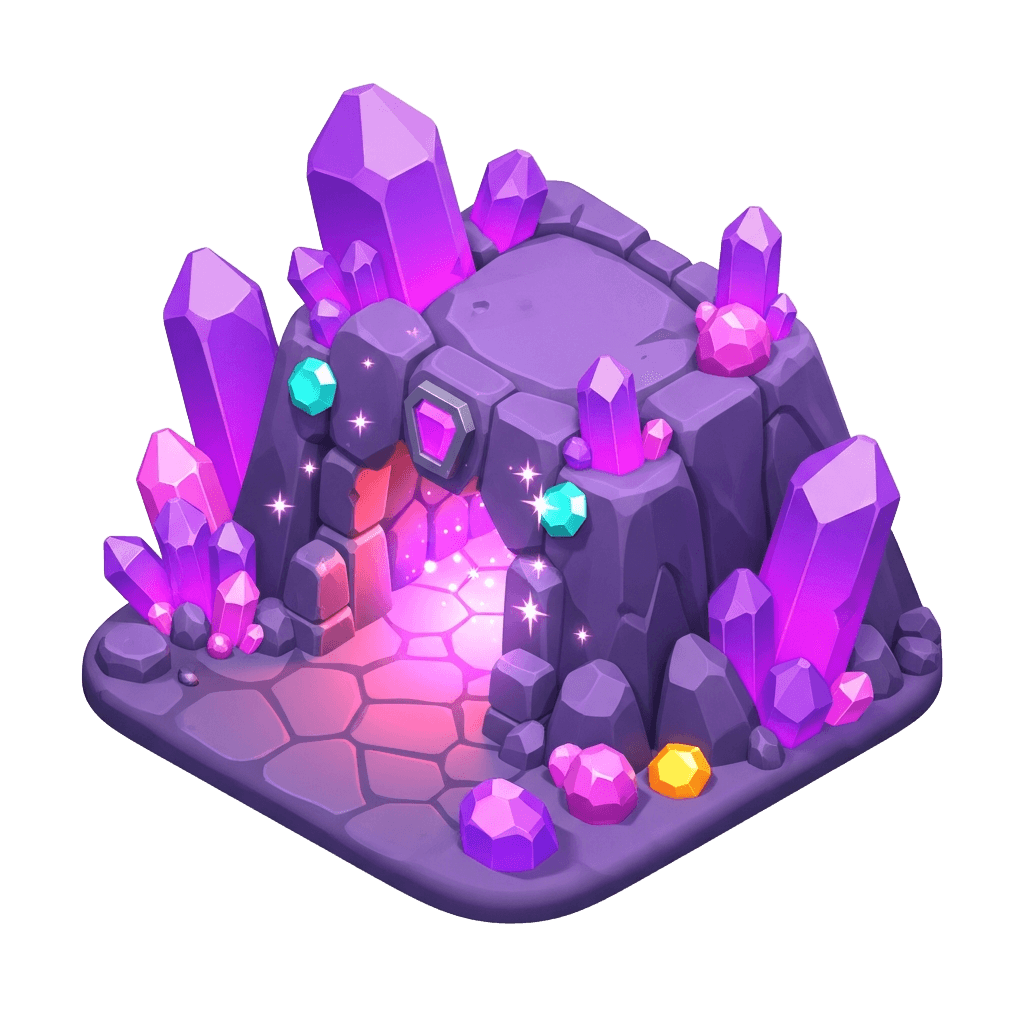
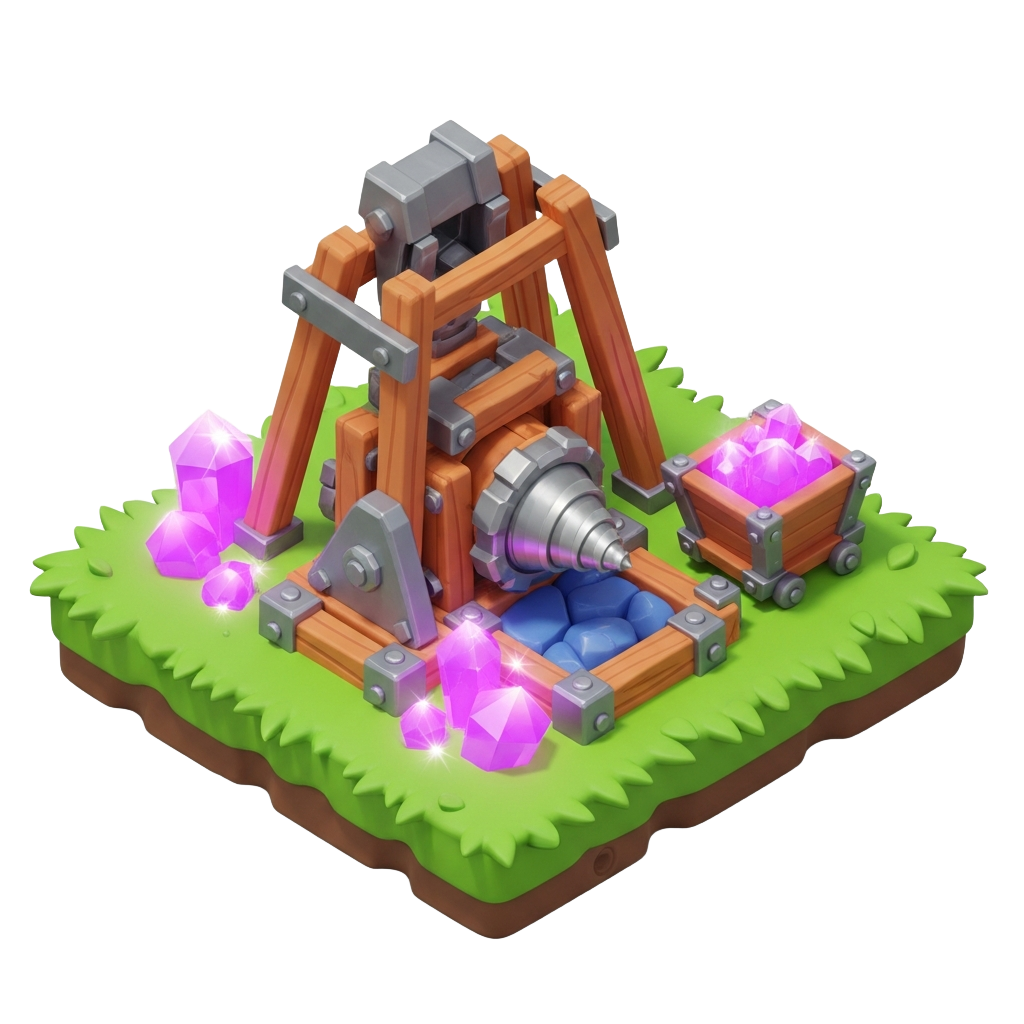
Rename 수정동굴 → 수정 채굴장 + new drill rig asset
Replaced the cave-themed gem building with a crystal mining station
featuring a wooden drill rig, mining cart, and scattered crystals.
Name changed everywhere: buildings.ts, GameScene label, dialogues,
terrain hints, BubbleCalibrate, calibrate.html (auto-synced).

Old gem_cave.png archived to buildings/_archive/gem_cave_old.png.
New asset generated via Scenario imagen4-ultra + Bria, keeping the
same filename (gem_cave.png) so the spriteKey doesn't change.

diff --git a/scripts/gen-gem-mine.js b/scripts/gen-gem-mine.js
@@ -1,0 +1,62 @@
+const fs = require('fs');
+const path = require('path');
+const API_KEY = process.env.SCENARIO_API_KEY || 'api_RsoY5ydaHBrf9jsce2iq8DSQ';
+const API_SECRET = process.env.SCENARIO_API_SECRET || 'fRnoC2LzCCWukUZqeEq3d4GL';
+const AUTH = Buffer.from(API_KEY + ':' + API_SECRET).toString('base64');
+const ROOT = 'https://api.cloud.scenario.com/v1';
+const BASE = 'Clash of Clans style, vibrant saturated colors, soft shadows, 3D cartoon render, slightly exaggerated proportions, clean textures, game asset on white background, mobile game art';
+
+async function apiCall(method, url, body) {
+    const opts = { method, headers: { Authorization: 'Basic ' + AUTH, 'Content-Type': 'application/json', accept: 'application/json' } };
+    if (body) opts.body = JSON.stringify(body);
+    const resp = await fetch(url, opts);
+    const text = await resp.text();
+    let data; try { data = JSON.parse(text); } catch { throw new Error('Non-JSON ' + resp.status); }
+    if (!resp.ok) throw new Error('API ' + resp.status + ': ' + text.slice(0, 400));
+    return data;
+}
+async function waitForJob(jobId) {
+    for (;;) { await new Promise(r => setTimeout(r, 4000)); const d = await apiCall('GET', ROOT + '/jobs/' + jobId); if (d.job.status === 'success') return d.job.metadata.assetIds[0]; if (d.job.status === 'failed') throw new Error('failed'); process.stdout.write('.'); }
+}
+async function download(assetId, out) {
+    const d = await apiCall('GET', ROOT + '/assets/' + assetId); const resp = await fetch(d.asset.url); fs.writeFileSync(out, Buffer.from(await resp.arrayBuffer()));
+}
+
+(async () => {
+    const prompt =
+        'Cute cartoon 3D small crystal mining station on grass tile, '
+        + 'small wooden drill rig with a spinning drill bit pointed at the ground, '
+        + 'a few glowing purple and pink crystal gems scattered around the base, '
+        + 'wooden support beams, small mining cart with raw crystals, '
+        + 'isometric view, sitting on grass, '
+        + BASE
+        + ', transparent background';
+
+    const dir = path.resolve('public/assets/generated/buildings');
+    const archDir = path.join(dir, '_archive');
+    if (!fs.existsSync(archDir)) fs.mkdirSync(archDir, { recursive: true });
+
+    // Archive old gem_cave
+    const oldPath = path.join(dir, 'gem_cave.png');
+    if (fs.existsSync(oldPath)) {
+        fs.copyFileSync(oldPath, path.join(archDir, 'gem_cave_old.png'));
+    }
+
+    const rawPath = path.join(dir, 'gem_cave_raw.png');
+    const finalPath = path.join(dir, 'gem_cave.png');
+
+    console.log('Generating crystal mining station...\n');
+    process.stdout.write('gen ');
+    const gen = await apiCall('POST', ROOT + '/generate/custom/model_imagen4-ultra', { prompt, aspectRatio: '1:1' });
+    const genId = await waitForJob(gen.job.jobId);
+    console.log(' ok');
+    await download(genId, rawPath);
+    console.log('raw:', rawPath);
+
+    process.stdout.write('bria ');
+    const rembg = await apiCall('POST', ROOT + '/generate/custom/model_bria-remove-background', { image: genId });
+    const rembgId = await waitForJob(rembg.job.jobId);
+    console.log(' ok');
+    await download(rembgId, finalPath);
+    console.log('final:', finalPath);
+})().catch(e => { console.error(e); process.exit(1); });

diff --git a/public/calibrate.html b/public/calibrate.html
@@ -66,7 +66,7 @@
             { id: 'woodshop', name: '목공방', path: 'assets/generated/buildings/woodshop.png', originY: 0.63, scale: 1.25, offX: 0.5, offY: -3 },
             { id: 'mine', name: '광산', path: 'assets/generated/buildings/mine.png', originY: 0.59, scale: 1.1, offX: 3, offY: -3.5 },
             { id: 'jewelshop', name: '세공소', path: 'assets/generated/buildings/jewelshop.png', originY: 0.69, scale: 1.1, offX: -0.5, offY: -2 },
-            { id: 'gemcave', name: '수정동굴', path: 'assets/generated/buildings/gem_cave.png', originY: 0.64, scale: 1.1, offX: 0, offY: -3 },
+            { id: 'gemcave', name: '수정 채굴장', path: 'assets/generated/buildings/gem_cave.png', originY: 0.64, scale: 1.1, offX: 0, offY: -3 },
             { id: 'box_stage1', name: '🎁 상자 1단계', path: 'assets/generated/giftbox/box_stage1_base.png', originY: 0.55, scale: 1.25, offX: 0.5, offY: -4 },
             { id: 'box_stage2', name: '🎁 상자 2단계', path: 'assets/generated/giftbox/box_stage2_frame.png', originY: 0.64, scale: 1.25, offX: 0.5, offY: -4 },
             { id: 'box_stage3', name: '🎁 상자 3단계', path: 'assets/generated/giftbox/box_stage3_flowers.png', originY: 0.63, scale: 1.25, offX: 0.5, offY: -4 },
@@ -80,7 +80,6 @@
             { id: 'cave_entrance', name: '동굴', path: 'assets/generated/terrain/cave_entrance.png', originY: 0.61, scale: 2, offX: -2.5, offY: -1 },
             { id: 'crystal_cluster', name: '수정', path: 'assets/generated/terrain/crystal_cluster.png', originY: 0.72, scale: 1.7, offX: 0, offY: 0 },
             { id: 'merchant_truck', name: '🚛 가죽상인', path: 'assets/generated/terrain/merchant_truck.png', originY: 0.56, scale: 1.85, offX: 0, offY: -20 },
-            { id: 'secret_doc', name: '📜 비밀문서', path: 'assets/generated/terrain/secret_doc.png', originY: 0.6, scale: 1.0, offX: 0, offY: 0 },
         ];
         let currentBuilding = 0;
         const imgs = {};

diff --git a/src/components/BuildingModal.tsx b/src/components/BuildingModal.tsx
@@ -173,8 +173,8 @@ const TERRAIN_TO_BUILDING: Record<string, { buildingId: string; buildHint: strin
     },
     crystal_cluster: {
         buildingId: 'gem_cave',
-        buildHint: '신비로운 수정이 반짝이며 무리 지어 있습니다. 근처에 수정동굴을 지어서 보석을 수확할 수 있습니다.',
-        doneHint: '신비로운 수정이 반짝이며 무리 지어 있습니다. 근처의 수정동굴을 터치하여 보석을 수확해 주세요.',
+        buildHint: '신비로운 수정이 반짝이며 무리 지어 있습니다. 근처에 수정 채굴장을 지어서 보석을 수확할 수 있습니다.',
+        doneHint: '신비로운 수정이 반짝이며 무리 지어 있습니다. 근처의 수정 채굴장을 터치하여 보석을 수확해 주세요.',
     },
 };
 

diff --git a/src/data/dialogues.ts b/src/data/dialogues.ts
@@ -302,7 +302,7 @@ export const DIALOGUES: DialogueScene[] = [
         when: (ctx) => ctx.currentDay === 4,
         lines: [
             { text: '좋은 아침입니다.' },
-            { text: '오늘은 수정동굴을 지을 수 있습니다. 보석 파츠를 만들기 위해 꼭 필요합니다.' },
+            { text: '오늘은 수정 채굴장을 지을 수 있습니다. 보석 파츠를 만들기 위해 꼭 필요합니다.' },
             { text: '오늘 만들어야 할 파츠는 5개입니다.' },
             { text: '그런데 잠깐, 확인해 보니 가죽 재료가 필요한 파츠가 있습니다.' },
             { text: '이곳에서는 가죽을 구할 수 없네요. 제가 방법을 알아보겠습니다.' },

diff --git a/src/data/buildings.ts b/src/data/buildings.ts
@@ -44,7 +44,7 @@ export const BUILDINGS: BuildingDef[] = [
         originY: 0.69, scale: 1.1, offX: -0.5, offY: -2,
     },
     {
-        id: 'gem_cave', name: '수정동굴', spriteKey: 'gemcave',
+        id: 'gem_cave', name: '수정 채굴장', spriteKey: 'gemcave',
         cost: [{ res: 'stone', amount: 1500 }, { res: 'metal', amount: 500 }],
         unlockDay: 4, row: 11, col: 6,
         originY: 0.64, scale: 1.1, offX: 0, offY: -3,

diff --git a/src/game/scenes/GameScene.ts b/src/game/scenes/GameScene.ts
@@ -112,7 +112,7 @@ const BUILDINGS: BuildingDef[] = [
       originY: 0.59, scale: 1.1, offX: 3, offY: -3.5 },
     { row: 6, col: 13, label: '세공소', spriteKey: 'jewelshop',
       originY: 0.69, scale: 1.1, offX: -0.5, offY: -2 },
-    { row: 11, col: 6, label: '수정동굴', spriteKey: 'gemcave',
+    { row: 11, col: 6, label: '수정 채굴장', spriteKey: 'gemcave',
       originY: 0.64, scale: 1.1, offX: 0, offY: -3 },
 ];
 

diff --git a/src/BubbleCalibrate.tsx b/src/BubbleCalibrate.tsx
@@ -9,7 +9,7 @@ const BUILDING_NAMES: Record<string, string> = {
     flower_farm: '꽃밭',
     quarry: '채석장',
     mine: '광산',
-    gem_cave: '수정동굴',
+    gem_cave: '수정 채굴장',
 };
 
 const BUILDING_SPRITE: Record<string, string> = {
